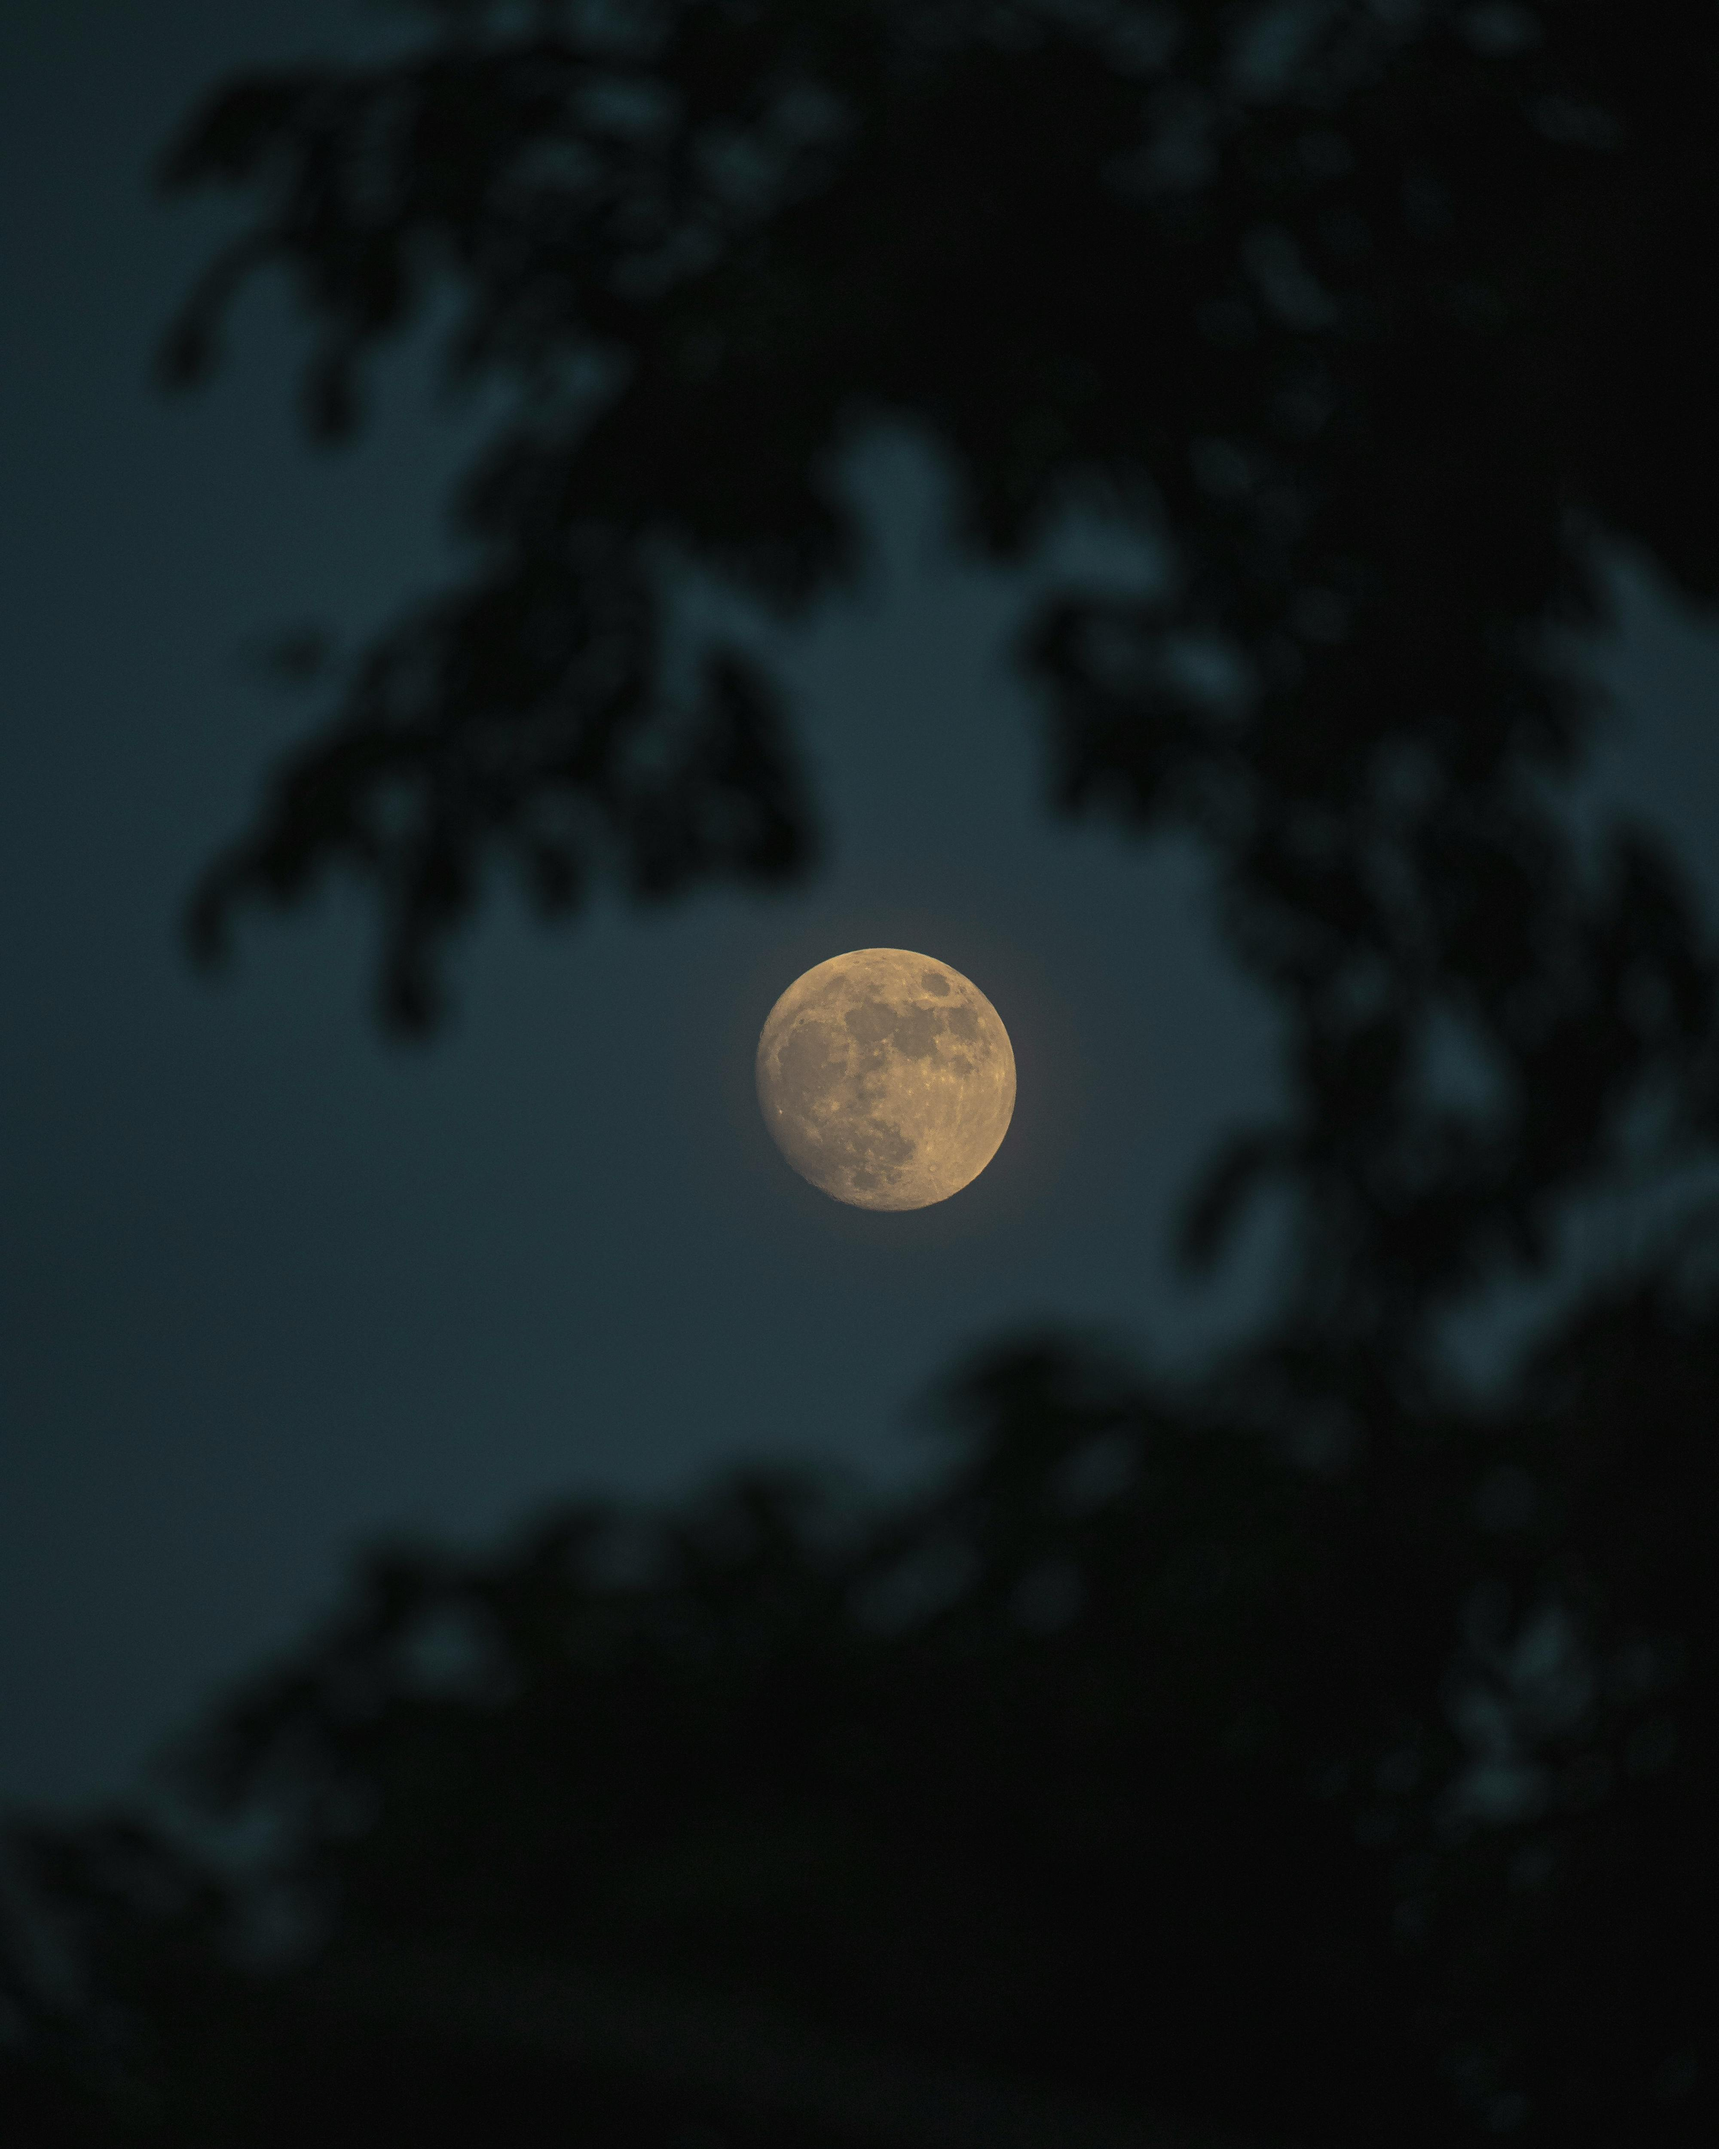
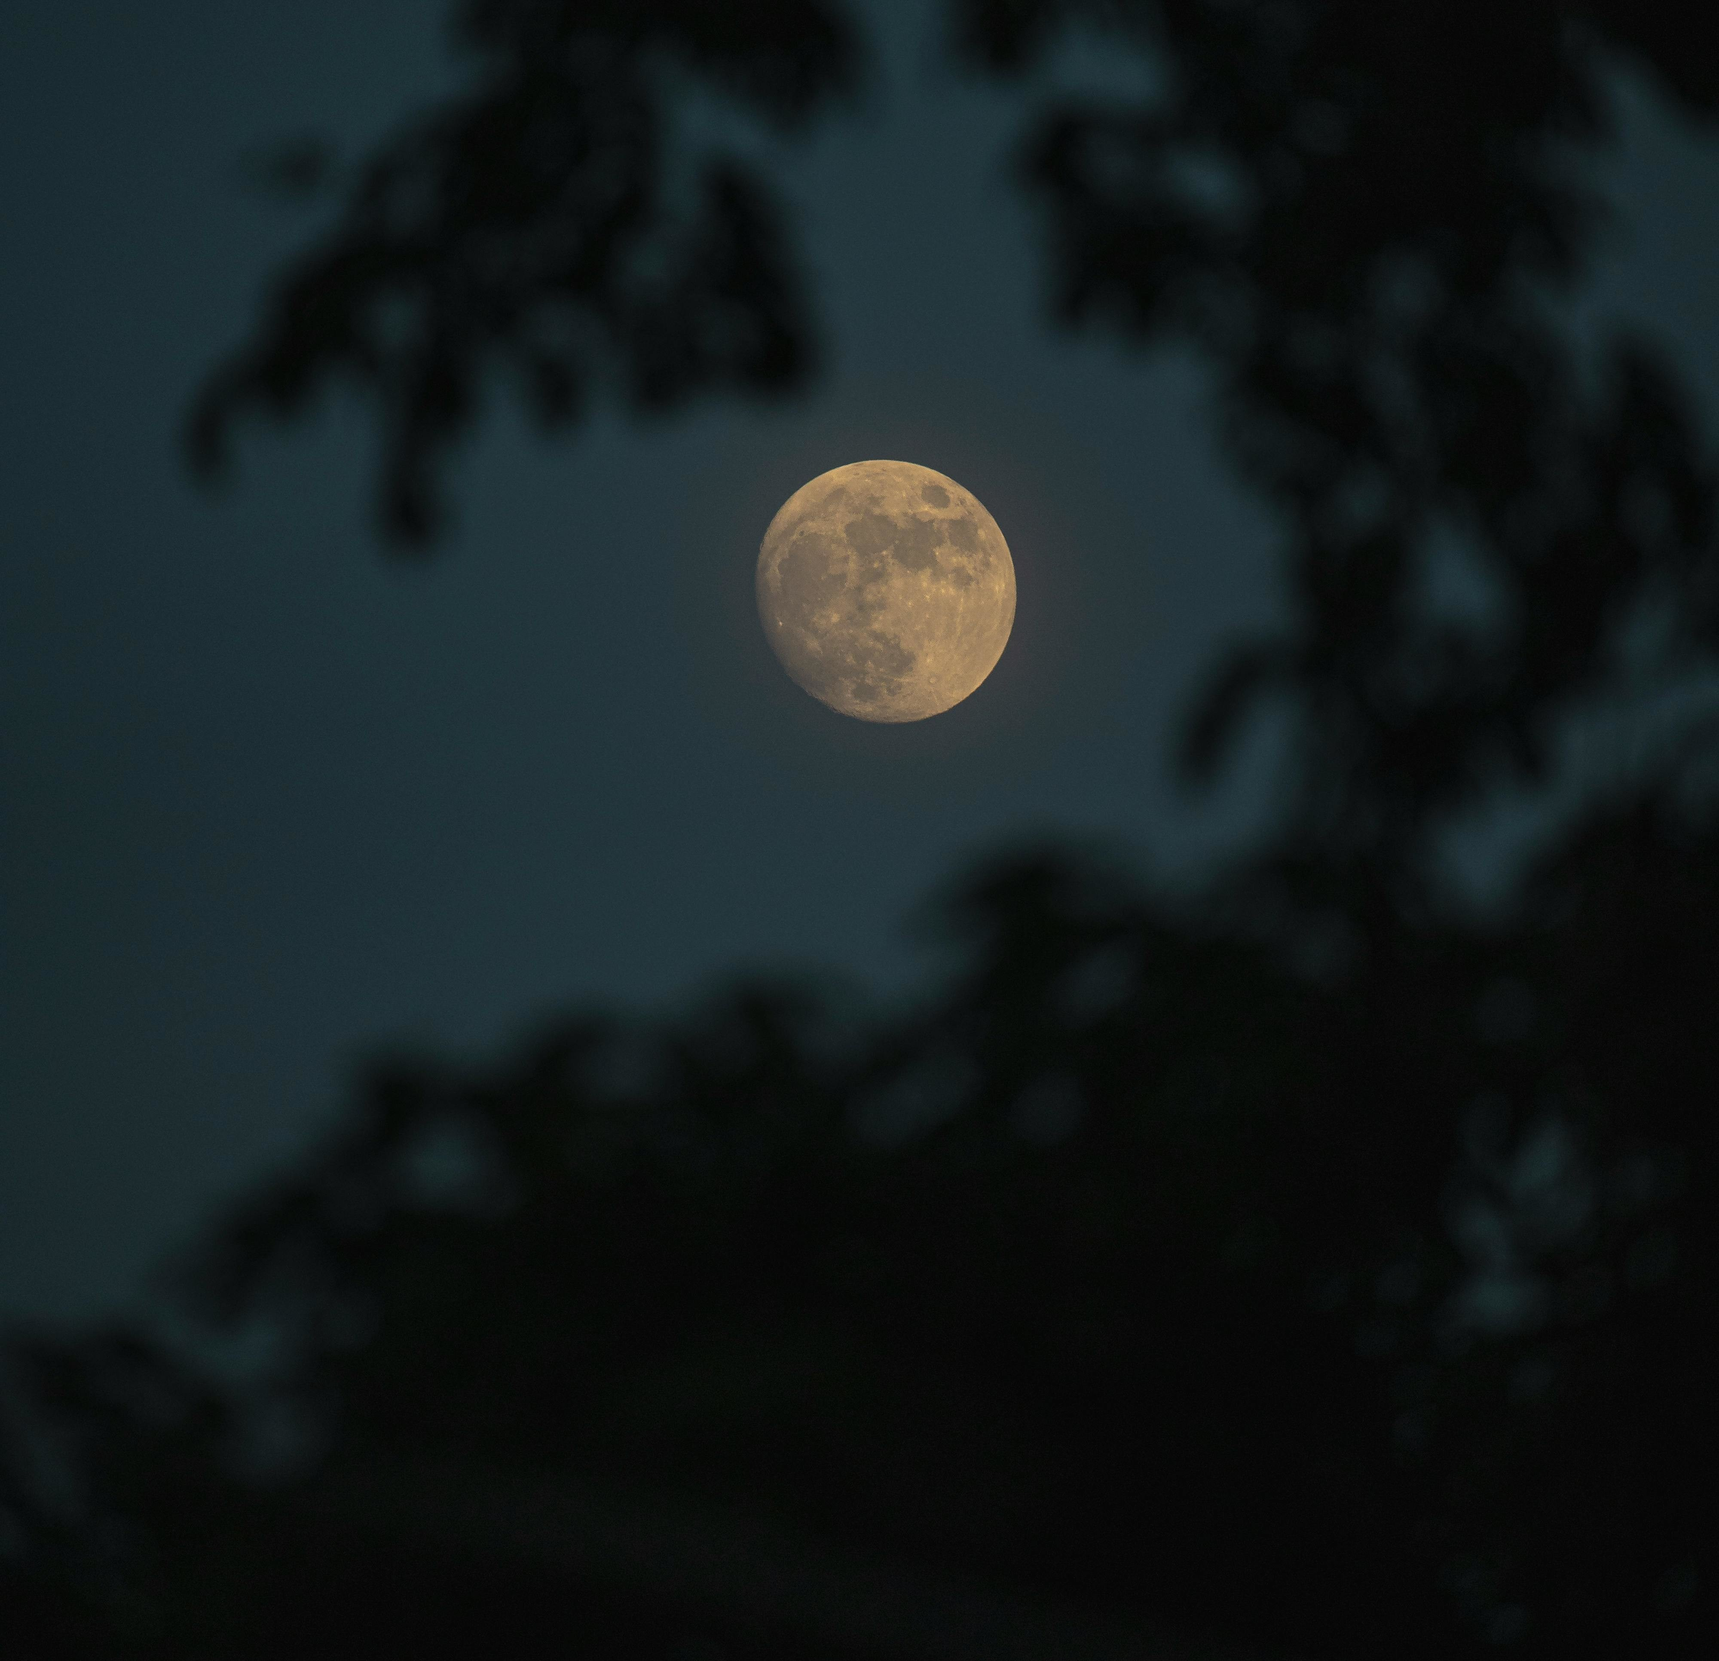
blog

diff --git a/blogs/chandra.html b/blogs/chandra.html
@@ -1,0 +1,156 @@
+<!DOCTYPE html>
+<html lang="en">
+
+<head>
+    <meta charset="UTF-8">
+    <meta name="viewport" content="width=device-width, initial-scale=1.0">
+    <title>The Lunar Pulse: Moon Rhythms and the Vitality of Herbs - Sampriti Blog</title>
+    <link rel="icon" type="image/png" href="../assets/images/logo-trans.png">
+
+    <!-- SEO Meta Tags -->
+    <meta name="description"
+        content="Discover how lunar phases influence botanical potency and the ritual of Chandra Rasa for deep sleep and vital healing.">
+    <meta name="keywords"
+        content="Moon Rhythms, Lunar Energy, Vitality, Herbs, Chandra Rasa, Sleep, Sampriti, Botanicals">
+    <meta name="author" content="Sampriti Botanicals">
+
+    <link rel="preconnect" href="https://fonts.googleapis.com">
+    <link rel="preconnect" href="https://fonts.gstatic.com" crossorigin>
+    <link
+        href="https://fonts.googleapis.com/css2?family=DM+Sans:ital,opsz,wght@0,9..40,100..1000;1,9..40,100..1000&family=Tenor+Sans&display=swap"
+        rel="stylesheet">
+    <link rel="stylesheet" href="../style.css">
+</head>
+
+<body>
+    <header class="main-header">
+        <div class="container">
+            <a href="../index.html" class="logo">
+                <img src="../assets/images/logo-trans-text.png" alt="Sampriti Logo">
+            </a>
+            <nav class="main-nav">
+                <ul>
+                    <li><a href="../index.html#about">ABOUT</a></li>
+                    <li><a href="../index.html#products">SHOP</a></li>
+                    <li><a href="../blog.html">BLOG</a></li>
+                    <li><a href="../contact.html">CONTACT</a></li>
+                </ul>
+            </nav>
+        </div>
+    </header>
+
+    <main>
+        <article class="blog-post-page section-padding">
+            <div class="container">
+                <div class="blog-post-header text-center">
+
+                    <h1 style="color: black !important;">The Lunar Pulse: Moon Rhythms and the Vitality of Herbs</h1>
+                </div>
+
+                <div class="blog-post-image">
+                    <img src="../assets/images/blog/chandra.jpg" alt="The Lunar Pulse">
+                </div>
+
+                <div class="blog-post-content max-width-800">
+                    <p>The Moon is far more than a celestial body; it is the universal "Mother of the World," the
+                        moistening principle that governs the flow of all liquids—from the tides of the oceans to the
+                        sap within a leaf.</p>
+
+                    <p>Ancient healers understood that while the Sun provides the energy for growth, it is the Moon that
+                        bestows potency. Botanicals gathered or processed under specific lunar phases are believed to
+                        carry a higher "life-spark" or vitality. In Siddha and other ancient traditions, the Moon is the
+                        ruler of the subconscious and the nervous system. By aligning our rituals with lunar energy, we
+                        tap into a primordial source of healing that cools the inflammatory fires of the day.</p>
+
+                    <p><strong>The Ritual: Chandra Rasa (The Moon Essence)</strong></p>
+                    <p>Our Chandra Rasa formulation is a botanical tribute to the night. It is crafted with herbs chosen
+                        for their ability to soothe the spirit and fortify the body’s natural defenses while you dream.
+                    </p>
+
+                    <div class="blog-post-image">
+                        <img src="../assets/images/blog/blue-tea.png" alt="Blue Tea">
+                    </div>
+
+                    <div class="recipe-box">
+                        <p>Method</p>
+                        <p>To extract the full vitality of these herbs, we use a traditional reduction method to
+                            concentrate the essence.</p>
+                        <ul class="method-list">
+                            <li><strong>Measure:</strong> Pour two cups of pure spring water into a small pot.</li>
+                            <li><strong>Infuse:</strong> Add one test tube of Sampriti Chandra Rasa to the water.</li>
+                            <li><strong>Simmer:</strong> Bring to a gentle boil, then reduce the heat. Let the tea
+                                simmer steadily until the liquid has reduced from 2 cups down to 1.5 cups. This
+                                concentration process "locks in" the potency of the Sarpagandha and Butterfly Pea.</li>
+                            <li><strong>Steep:</strong> Turn off the heat and let the blend steep for 5 minutes,
+                                allowing the deep blue pigments to fully bloom.</li>
+                            <li><strong>The Nightcap:</strong> Drink slowly 30 minutes before bed.</li>
+                        </ul>
+
+                        <p class="recipe-note"><strong>The Result:</strong> A calm, regulated nervous system and a deep,
+                            uninterrupted descent into sleep, governed by the cooling energy of the Moon.</p>
+                    </div>
+
+                    <div class="blog-navigation">
+                        <a href="../blog.html" class="btn btn-secondary">&larr; Back to Blog</a>
+                    </div>
+                </div>
+            </div>
+        </article>
+    </main>
+
+    <footer class="main-footer">
+        <div class="container">
+            <div class="footer-content">
+                <div class="footer-logo">
+                    <a href="../index.html" class="logo">
+                        <img src="../assets/images/logo-trans-text.png" alt="Sampriti" style="max-width: 150px;">
+                    </a>
+                </div>
+                <div class="footer-links">
+                    <a href="../index.html#about">About</a>
+                    <a href="../index.html#products">Shop</a>
+                    <a href="../contact.html">Contact</a>
+                </div>
+            </div>
+            <div class="footer-bottom">
+                <p>&copy; 2026 Sampriti. All rights reserved.</p>
+            </div>
+        </div>
+    </footer>
+
+    <div id="buy-modal" class="modal">
+        <div class="modal-content">
+            <span class="close-modal">&times;</span>
+            <h2>Complete Your Order</h2>
+            <p id="modal-product-name"></p>
+            <form id="buy-form">
+                <input type="hidden" id="product-name" name="product-name">
+
+                <div class="form-group">
+                    <label for="name">Full Name</label>
+                    <input type="text" id="name" name="name" required>
+                </div>
+
+                <div class="form-group">
+                    <label for="email">Email Address</label>
+                    <input type="email" id="email" name="email" required>
+                </div>
+
+                <div class="form-group">
+                    <label for="phone">Phone Number</label>
+                    <input type="tel" id="phone" name="phone" required>
+                </div>
+
+                <div class="form-group">
+                    <label for="address">Shipping Address</label>
+                    <textarea id="address" name="address" rows="3" required></textarea>
+                </div>
+
+                <button type="submit" class="btn btn-primary full-width">Place Order</button>
+            </form>
+        </div>
+    </div>
+    <script src="../script.js"></script>
+</body>
+
+</html>

diff --git a/blog.html b/blog.html
@@ -82,6 +82,23 @@
                             </div>
                         </a>
                     </article>
+
+                    <!-- Blog Post 3 -->
+                    <article class="blog-card">
+                        <a href="blogs/chandra.html" class="blog-card-link">
+                            <div class="blog-card-image">
+                                <img src="assets/images/blog/chandra.jpg"
+                                    alt="The Lunar Pulse: Moon Rhythms and the Vitality of Herbs">
+                            </div>
+                            <div class="blog-card-content">
+                                <span class="blog-category">Moon Rhythms</span>
+                                <h3>The Lunar Pulse: Moon Rhythms and the Vitality of Herbs</h3>
+                                <p>The Moon is far more than a celestial body; it is the universal "Mother of the
+                                    World," the moistening principle that governs the flow of all liquids.</p>
+                                <span class="read-more">Read Article &rarr;</span>
+                            </div>
+                        </a>
+                    </article>
                 </div>
             </div>
         </section>

diff --git a/index.html b/index.html
@@ -148,9 +148,6 @@
                             of the sun, the turning of the seasons, and the pulsing of our own cells. When we fall out
                             of rhythm, we fall out of radiance.
                         </p>
-                        <p>
-                            <i> ~ Aishwarya </i>
-                        </p>
 
 
 
